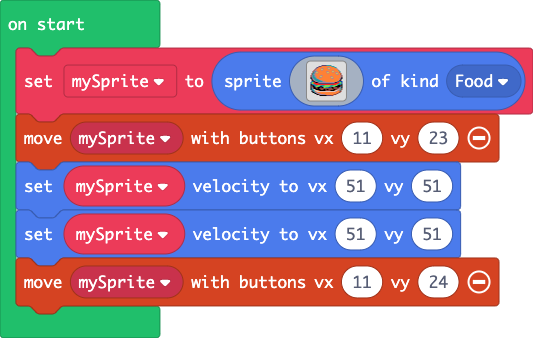
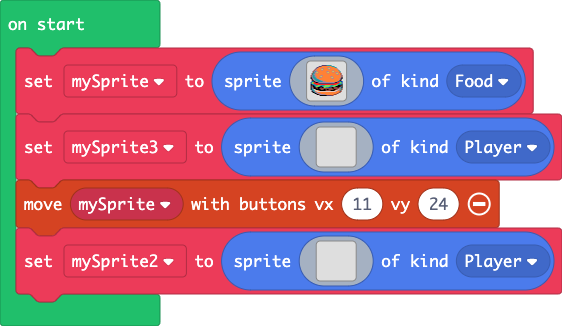
Restore '1/31/2020, 8:55:34 PM Update main.blocks, main.ts' (47073d2827f7791c0e94ed475884ba112a79584f)

diff --git a/main.ts b/main.ts
@@ -32,7 +32,40 @@ f 6 6 d d f f f f f e e e f f e f f e e e e e f f e e d b 4 6 e
 . . . . . . . . . f f f f f f f c c c c c e e . . . . . . . . . 
 . . . . . . . . . . . . . . . . . . . . . . . . . . . . . . . . 
 `, SpriteKind.Food)
-controller.moveSprite(mySprite, 11, 23)
-mySprite.setVelocity(51, 51)
-mySprite.setVelocity(51, 51)
+let mySprite3 = sprites.create(img`
+. . . . . . . . . . . . . . . . 
+. . . . . . . . . . . . . . . . 
+. . . . . . . . . . . . . . . . 
+. . . . . . . . . . . . . . . . 
+. . . . . . . . . . . . . . . . 
+. . . . . . . . . . . . . . . . 
+. . . . . . . . . . . . . . . . 
+. . . . . . . . . . . . . . . . 
+. . . . . . . . . . . . . . . . 
+. . . . . . . . . . . . . . . . 
+. . . . . . . . . . . . . . . . 
+. . . . . . . . . . . . . . . . 
+. . . . . . . . . . . . . . . . 
+. . . . . . . . . . . . . . . . 
+. . . . . . . . . . . . . . . . 
+. . . . . . . . . . . . . . . . 
+`, SpriteKind.Player)
 controller.moveSprite(mySprite, 11, 24)
+let mySprite2 = sprites.create(img`
+. . . . . . . . . . . . . . . . 
+. . . . . . . . . . . . . . . . 
+. . . . . . . . . . . . . . . . 
+. . . . . . . . . . . . . . . . 
+. . . . . . . . . . . . . . . . 
+. . . . . . . . . . . . . . . . 
+. . . . . . . . . . . . . . . . 
+. . . . . . . . . . . . . . . . 
+. . . . . . . . . . . . . . . . 
+. . . . . . . . . . . . . . . . 
+. . . . . . . . . . . . . . . . 
+. . . . . . . . . . . . . . . . 
+. . . . . . . . . . . . . . . . 
+. . . . . . . . . . . . . . . . 
+. . . . . . . . . . . . . . . . 
+. . . . . . . . . . . . . . . . 
+`, SpriteKind.Player)
